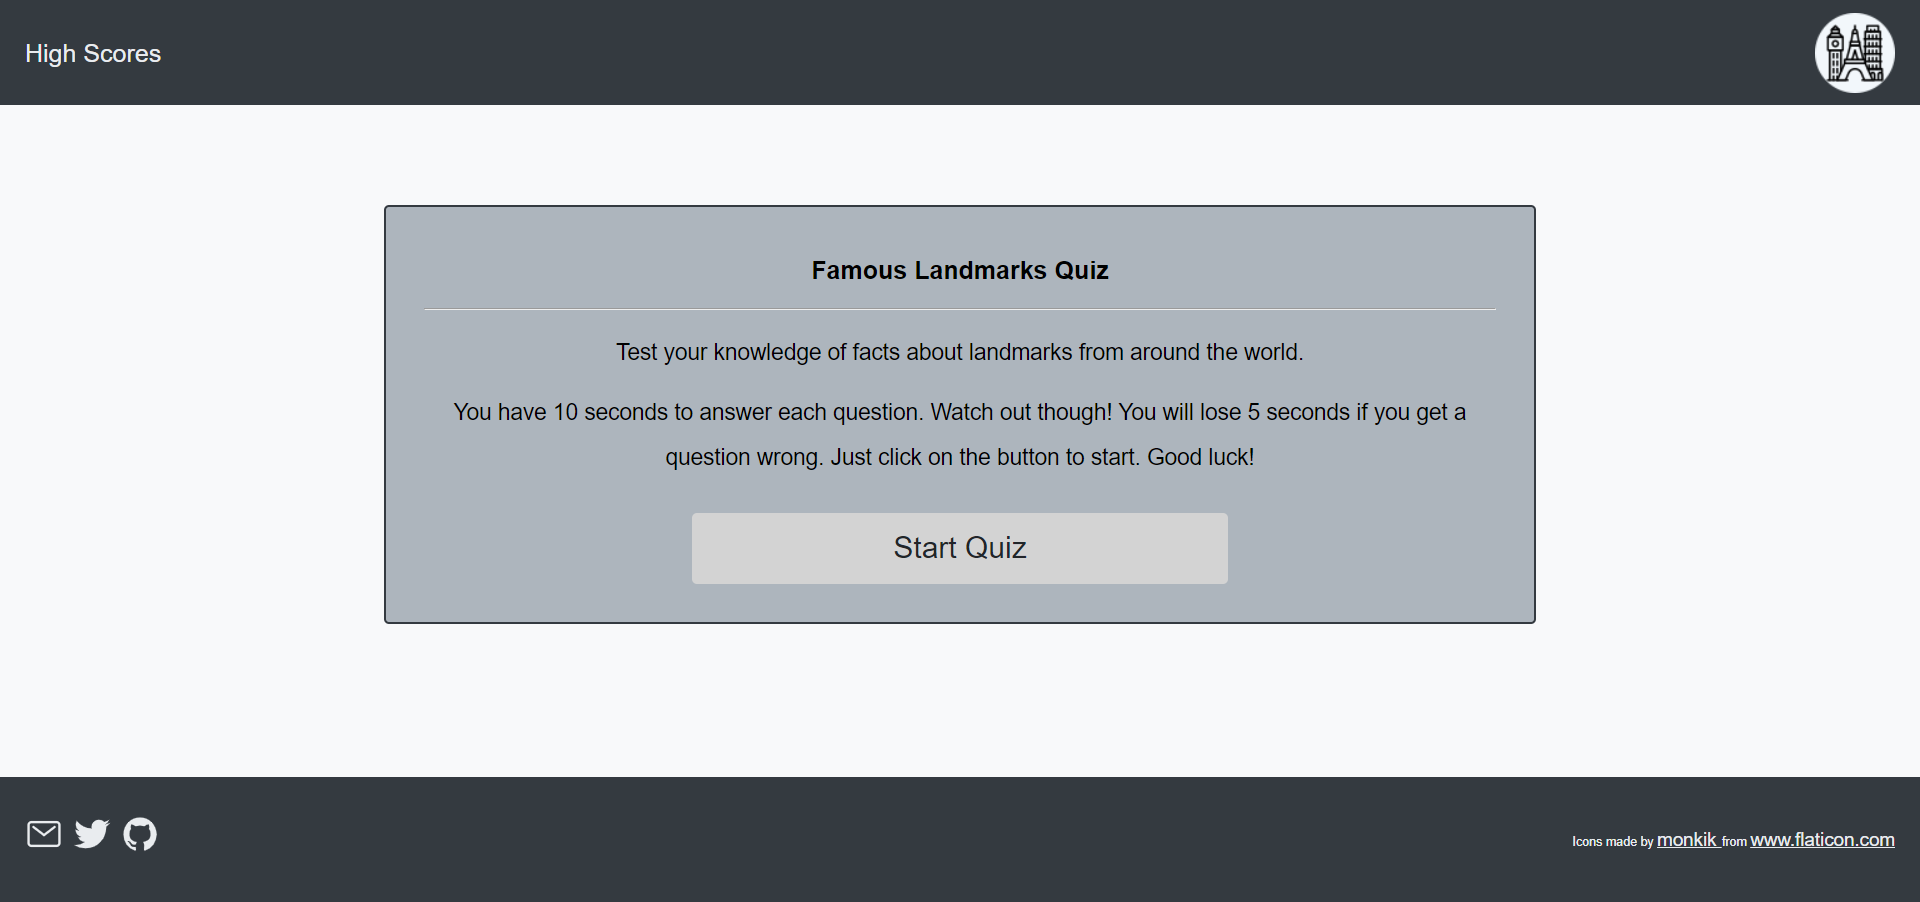
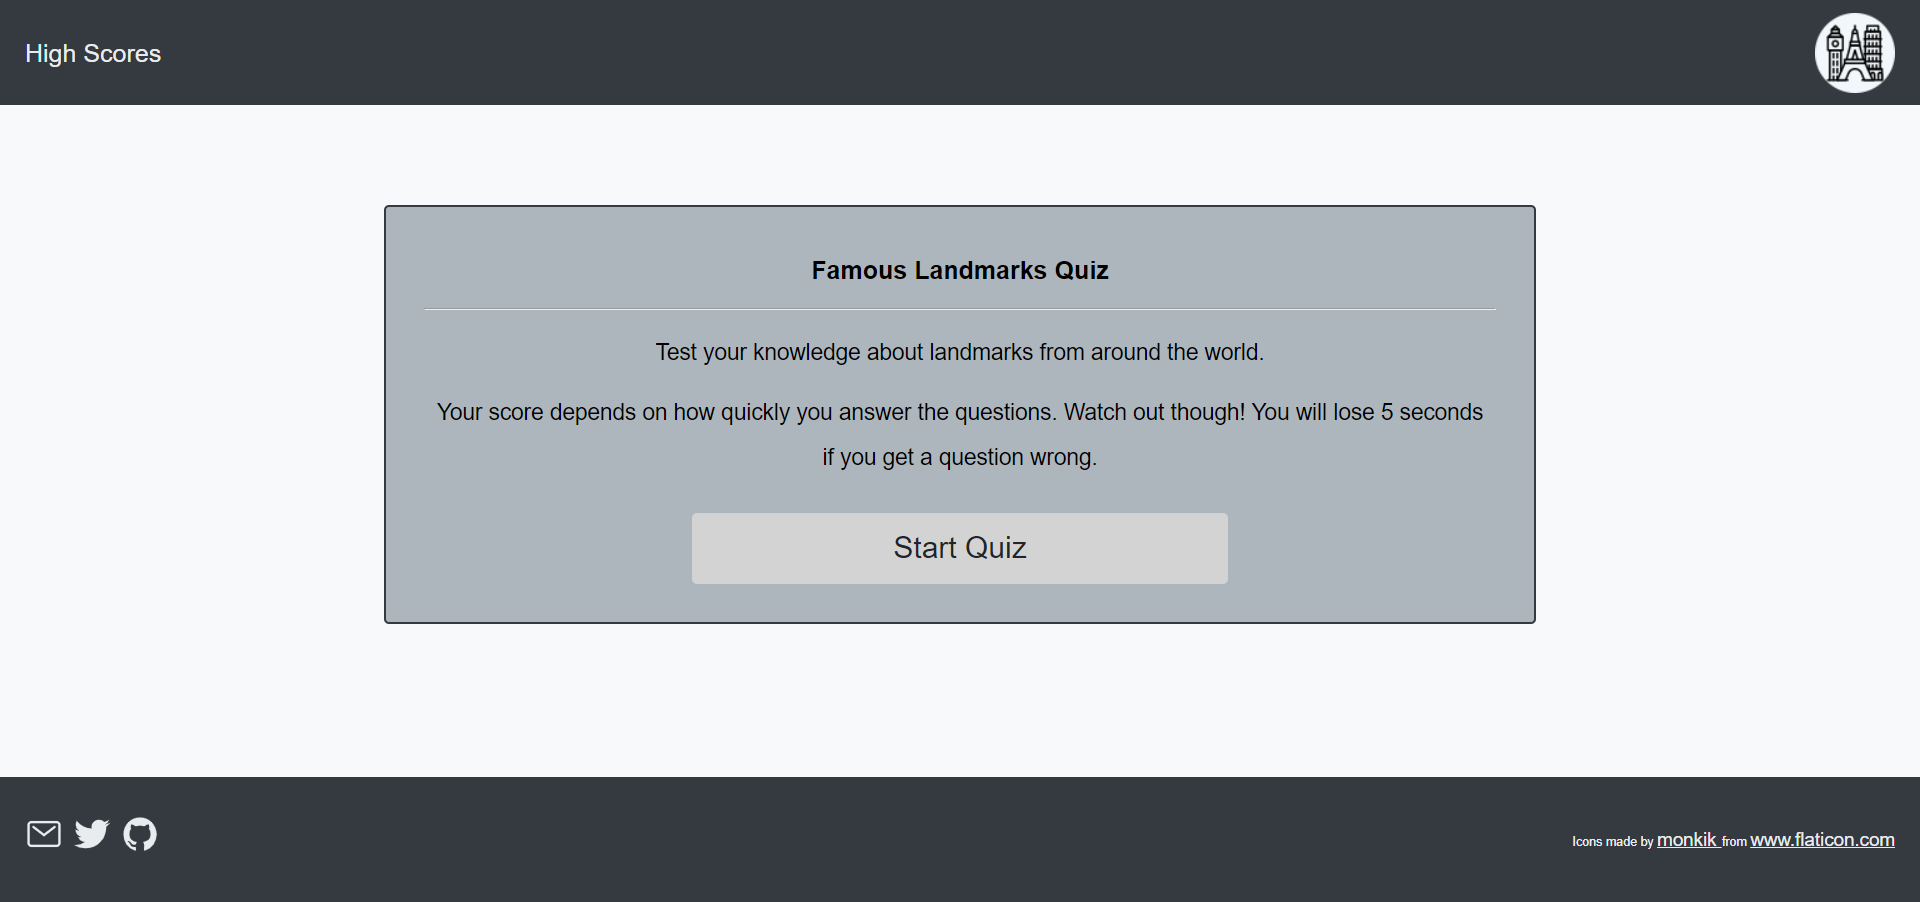
readme complete

Changed region(s): [[0.2188, 0.4346, 0.7812, 0.4656], [0.3125, 0.3725, 0.6875, 0.4035], [0.3438, 0.4967, 0.6562, 0.5277]]

diff --git a/index.html b/index.html
@@ -34,9 +34,9 @@
 
         <div>
         <p>
-          Test your knowledge of facts about landmarks from around the world.
+          Test your knowledge about landmarks from around the world.
         </p>
-        <p>You have 10 seconds to answer each question.  Watch out though! You will lose 5 seconds if you get a question wrong. Just click on the button to start.  Good luck!</button></p>
+        <p>Your score depends on how quickly you answer the questions.  Watch out though! You will lose 5 seconds if you get a question wrong. </button></p>
       </div>
 
 <!--First page - start quiz button-->

diff --git a/README.md b/README.md
@@ -10,10 +10,11 @@ In this project a timed coding quiz with multiple-choice questions was built. Th
 
 [Deployed page](https://nsharma-uk.github.io/famous-landmark-quiz/)
 
-
 [Repository](https://github.com/nsharma-uk/landmark-quiz)
 <br>
 <br>
+
+![screenshot of deployed page](/assets/images/startquizwebpage.png)
 
 ## Technologies
 
@@ -27,69 +28,63 @@ In this project a timed coding quiz with multiple-choice questions was built. Th
   <br>
   <br>
 
-## Project Details - User Story
+## Project Details - User Story 
+<br>
+AS A user
 
-AS AN employee with access to sensitive data
+I WANT to take a timed quiz on landmarks around the world that stores high scores
 
-I WANT to randomly generate a password that meets certain criteria
-SO THAT I can create a strong password that provides greater security
+SO THAT I test my knowledge compared to other users
+
+
 <br>
 <br>
 
 ## Project Details - Acceptance Criteria
+<br>
 
-GIVEN I need a new, secure password
+GIVEN I am taking a quiz
 
-WHEN I click the button to generate a password
+WHEN I click the start button
 
-THEN I am presented with a series of prompts for password criteria
+THEN a timer starts and I am presented with a question
 
-WHEN prompted for password criteria
+WHEN I answer a question
 
-THEN I select which criteria to include in the password
+THEN I am presented with another question
 
-WHEN prompted for the length of the password
+WHEN I answer a question incorrectly
 
-THEN I choose a length of at least 8 characters and no more
-than 128 characters
+THEN time is subtracted from the clock
 
-WHEN asked for character types to include in the password
+WHEN all questions are answered or the timer reaches 0
 
-THEN I confirm whether or not to include lowercase, uppercase, numeric, and/or special characters
+THEN the game is over
 
-WHEN I answer each prompt
+WHEN the game is over
 
-THEN my input should be validated and at least one character type should be selected
+THEN I can save my name and my score
 
-WHEN all prompts are answered
 
-THEN a password is generated that matches the selected criteria
-
-WHEN the password is generated
-
-THEN the password is either displayed in an alert or written to the page
-
+<br>
 <br>
 
 ## Screenshots
 
-Deployed page
+ <br>
+Example 1 of a multiple choice question
 
-![screenshot of deployed page](assets/images/startquizwebpage.png) 
+![screenshot of example of a question page](./assets/images/questionsinquiz.png)
+
 <br>
 <br>
-Prompt asking for input of chosen password length
+Example 2 of a multiple choice question
 
-![Prompt box asking for password length](./assests/images/firstpromptbox.png)
+![screenshot of example of a question page](./assets/images/questionsinquiz2.png)
 <br>
 <br>
-Prompt asking if user wants lowercase in their password
-
-![Prompt box asking if want lowercase in password](./assests/images/lowercase.png)
-
-Alert message telling user that they need to select at least one criteria.
-
-![Prompt box asking for password length](./assests/images/oops.png)
+The score page to submit the results to scoreboard
+![Screenshot of the scorepage ](/assets/images/scorepage.png)
 
 <br>
 
